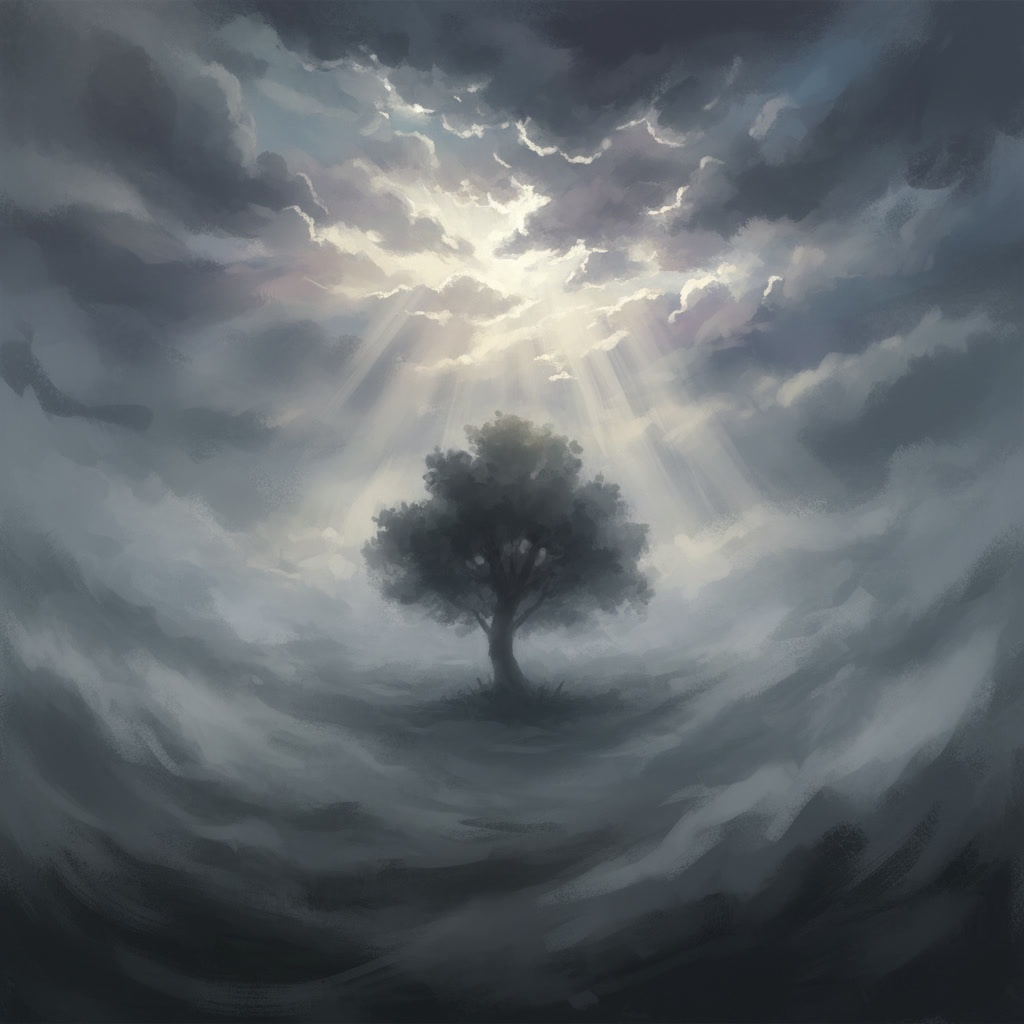
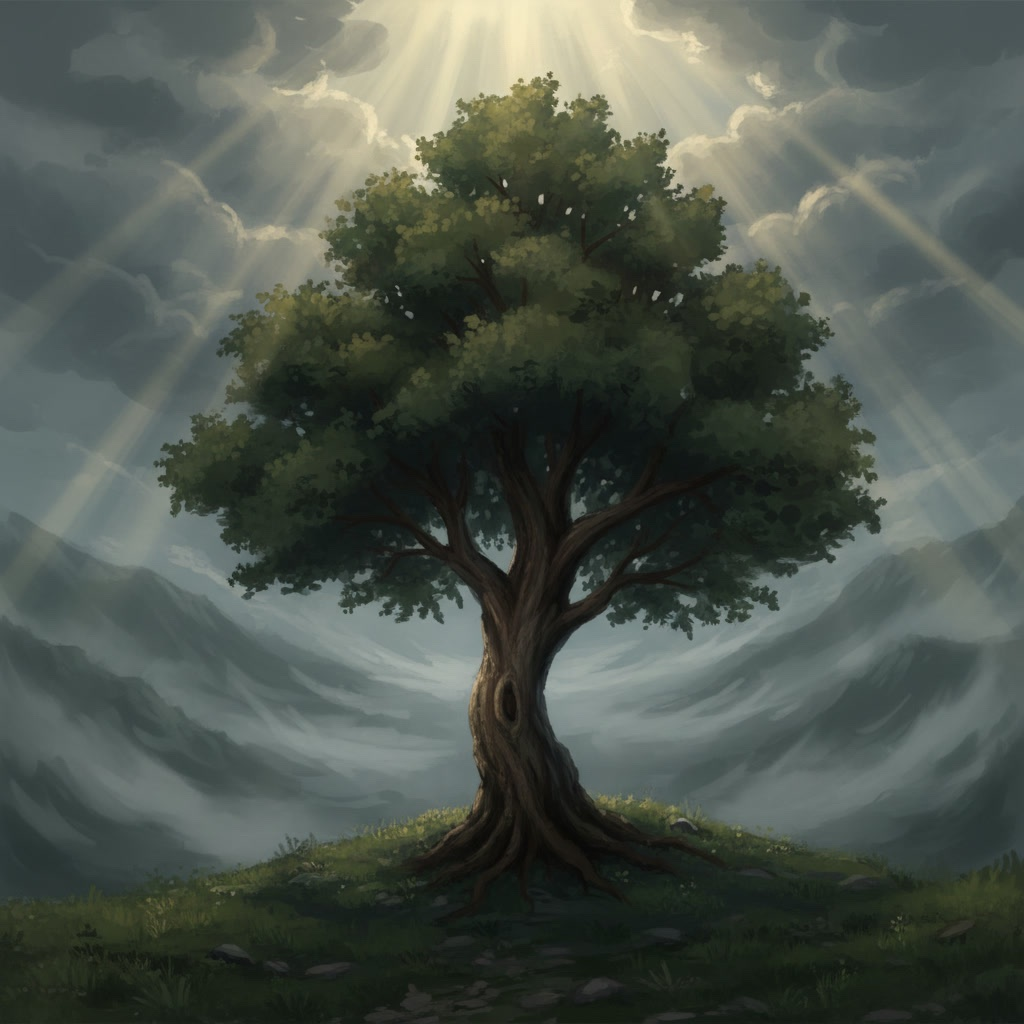
Replace Romanticism image with романтизм2
Swap tree-17 for the newer desktop source.

diff --git a/index.html b/index.html
@@ -7,7 +7,7 @@
   <link rel="preconnect" href="https://fonts.googleapis.com" />
   <link rel="preconnect" href="https://fonts.gstatic.com" crossorigin />
   <link href="https://fonts.googleapis.com/css2?family=Cormorant+Garamond:ital,wght@0,400;0,600;1,400&family=Manrope:wght@400;500;600&display=swap" rel="stylesheet" />
-  <link rel="stylesheet" href="styles.css?v=20" />
+  <link rel="stylesheet" href="styles.css?v=21" />
   <link rel="preload" as="image" href="images/tree-1.jpg" />
   <link rel="preload" as="image" href="images/tree-2.jpg" />
   <link rel="preload" as="image" href="images/tree-3.jpg" />
@@ -109,7 +109,7 @@
       <button type="button" class="btn btn--ghost" id="btn-again">Пройти ещё раз</button>
     </section>
   </main>
-  <script src="config.js?v=20"></script>
-  <script src="app.js?v=20"></script>
+  <script src="config.js?v=21"></script>
+  <script src="app.js?v=21"></script>
 </body>
 </html>

diff --git a/public/index.html b/public/index.html
@@ -7,7 +7,7 @@
   <link rel="preconnect" href="https://fonts.googleapis.com" />
   <link rel="preconnect" href="https://fonts.gstatic.com" crossorigin />
   <link href="https://fonts.googleapis.com/css2?family=Cormorant+Garamond:ital,wght@0,400;0,600;1,400&family=Manrope:wght@400;500;600&display=swap" rel="stylesheet" />
-  <link rel="stylesheet" href="styles.css?v=20" />
+  <link rel="stylesheet" href="styles.css?v=21" />
   <link rel="preload" as="image" href="images/tree-1.jpg" />
   <link rel="preload" as="image" href="images/tree-2.jpg" />
   <link rel="preload" as="image" href="images/tree-3.jpg" />
@@ -109,7 +109,7 @@
       <button type="button" class="btn btn--ghost" id="btn-again">Пройти ещё раз</button>
     </section>
   </main>
-  <script src="config.js?v=20"></script>
-  <script src="app.js?v=20"></script>
+  <script src="config.js?v=21"></script>
+  <script src="app.js?v=21"></script>
 </body>
 </html>
